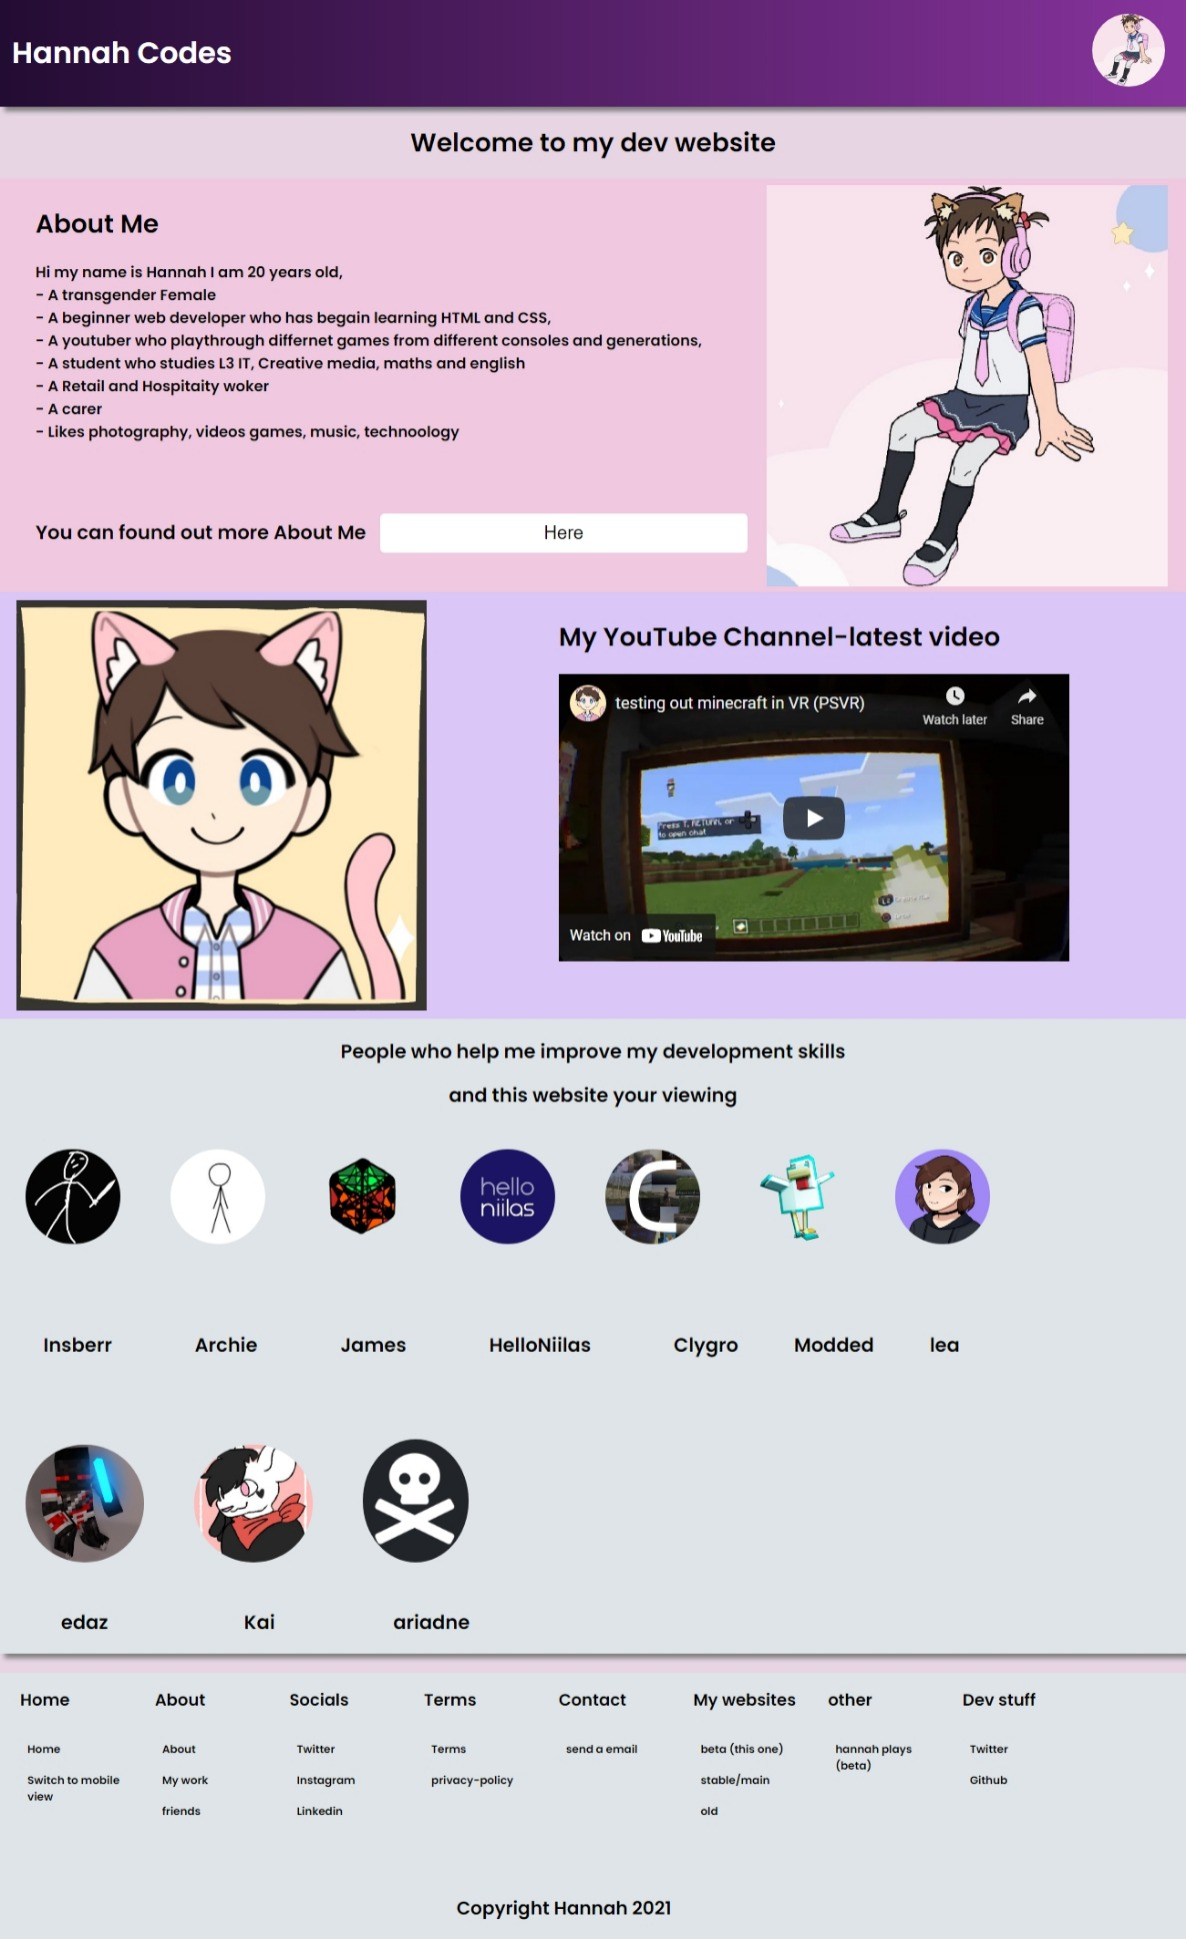
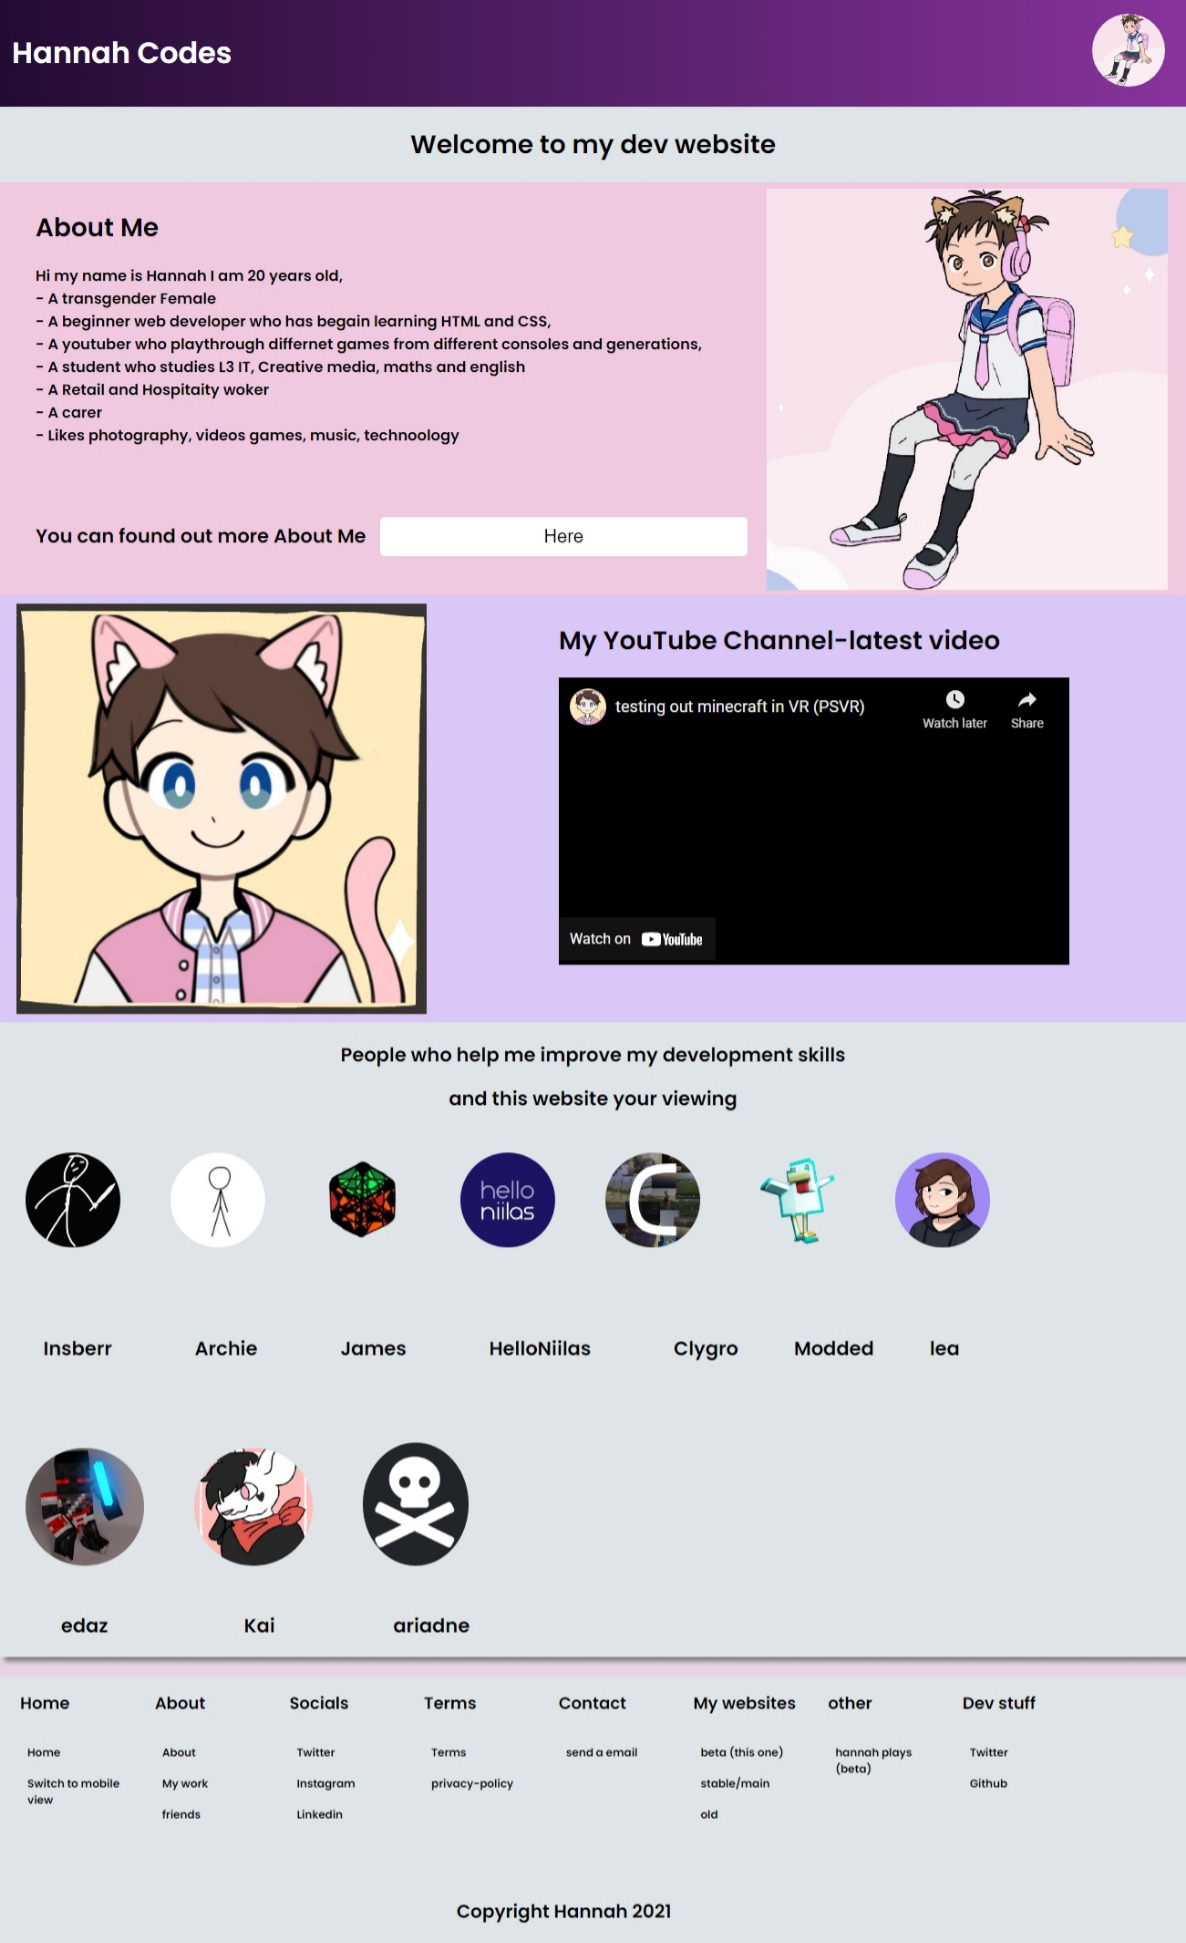
new slight ui design changes

diff --git a/404.html b/404.html
@@ -60,13 +60,12 @@
         </div>
       </div>
     </div>
-    
   </div>
 </div>
 </div>
 </div> 
 <div class="text404">
-  <h1 > you have received a 404 error</h1>
+  <h1> you have received a 404 error</h1>
    <h1> sorry the page you were trying find is either not avalible, has been moved or you've typed in the wrong url</h1>
    <h1> return home 
      <button class= "button" onclick="location.href='index.html'">here</button>

diff --git a/discord.html b/discord.html
@@ -66,7 +66,9 @@
 </div>
 </div>
 </div>
-  <h1 class="abouttext">About My Discord Server</h1>
+<div class="space">
+  <h1 class="pfptext">About My Discord Server</h1>
+</div>
   <h2>welcome to my discord server, here you can chat about many different things </h2>
     <h2>like chatting about: general things in the general channel</h2>
     <img src="./general.JPEG" draggable="false" style="width:750px; height:450px;"/>

diff --git a/my-Projects.html b/my-Projects.html
@@ -66,7 +66,9 @@
 </div>
 </div>
 </div>
-   <h1> My Projects </h1>
+<div class="space">
+   <h1 class="pfptext"> My Projects </h1>
+  </div>
    <p>here is a showcase of all that i have been or that i am currently working on </p>
 <h2> my Dev website v1</h2>     
    <img src="website-v1.jpeg" draggable="false" style="width:1210px; height:560px;"/>

diff --git a/minecraft.html b/minecraft.html
@@ -66,7 +66,9 @@
 </div>
 </div>
 </div>
-   <h1> About My Minecraft sever </h1>
+<div class="space">
+  <h1 class="pfptext"> About My Minecraft sever </h1>
+  </div>
    <p> Hi welcome to My Minecraft Server... 
         </p>
         <footer class= "footer">

diff --git a/index.html b/index.html
@@ -66,8 +66,9 @@
 </div>
 </div>
 </div>
-
+<div class="space">
   <h1 class="pfptext">Welcome to my dev website</h1>
+</div>
   <div class="imgdisplay">
   <img class="picrew" src="IMG_3609.JPEG" alt="hannah" draggable="false" ;/>
   

diff --git a/about.html b/about.html
@@ -67,8 +67,9 @@
 </div>
 </div>
 </div>
+<div class="space">
    <h1 class="pfptext"> About Me </h1>
-  
+  </div>
   
 <h2 class="abouttext"> hi my name is Hannah, i'm 20 years old and I live in Andover. </h2>
 

diff --git a/style.css b/style.css
@@ -295,7 +295,7 @@ a {
 	  float: right;
 	  right: 10px;
 	  
-	  bottom: -30px;
+	  bottom: -100px;
 	 
 }
 .button {
